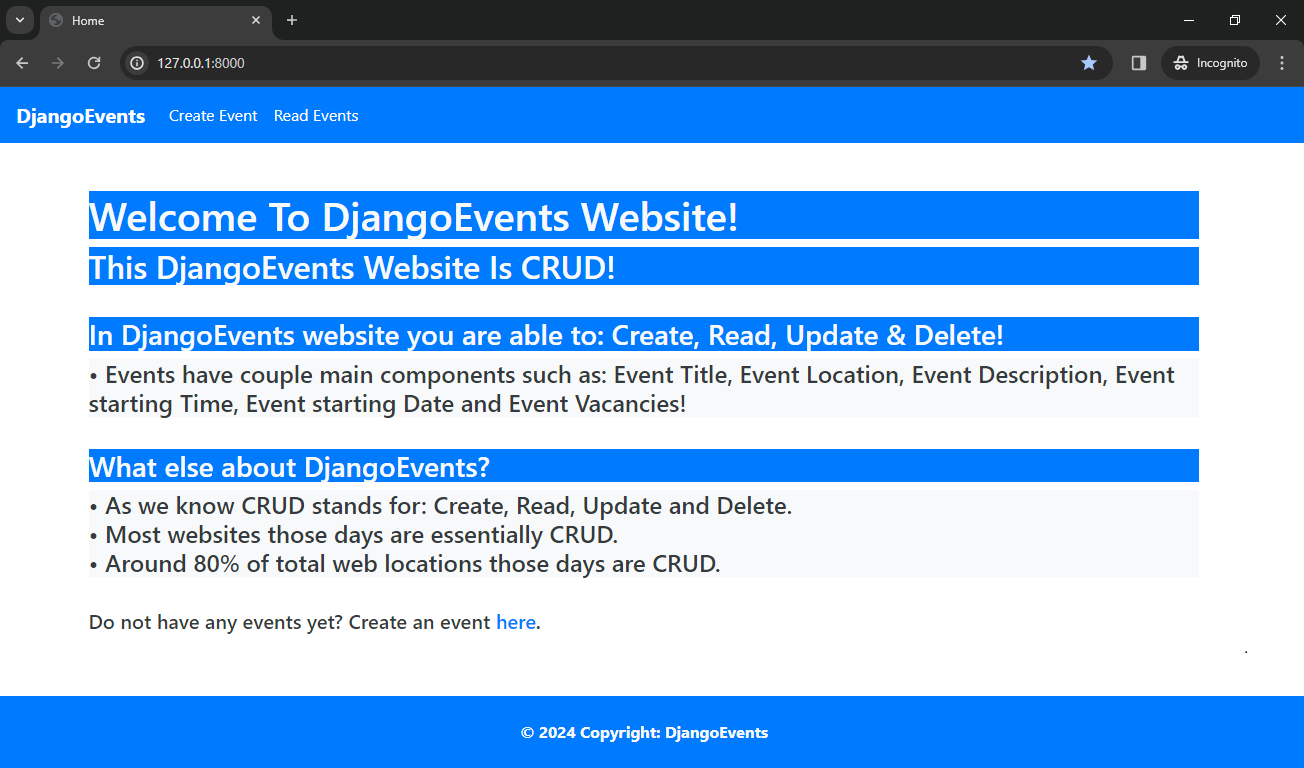
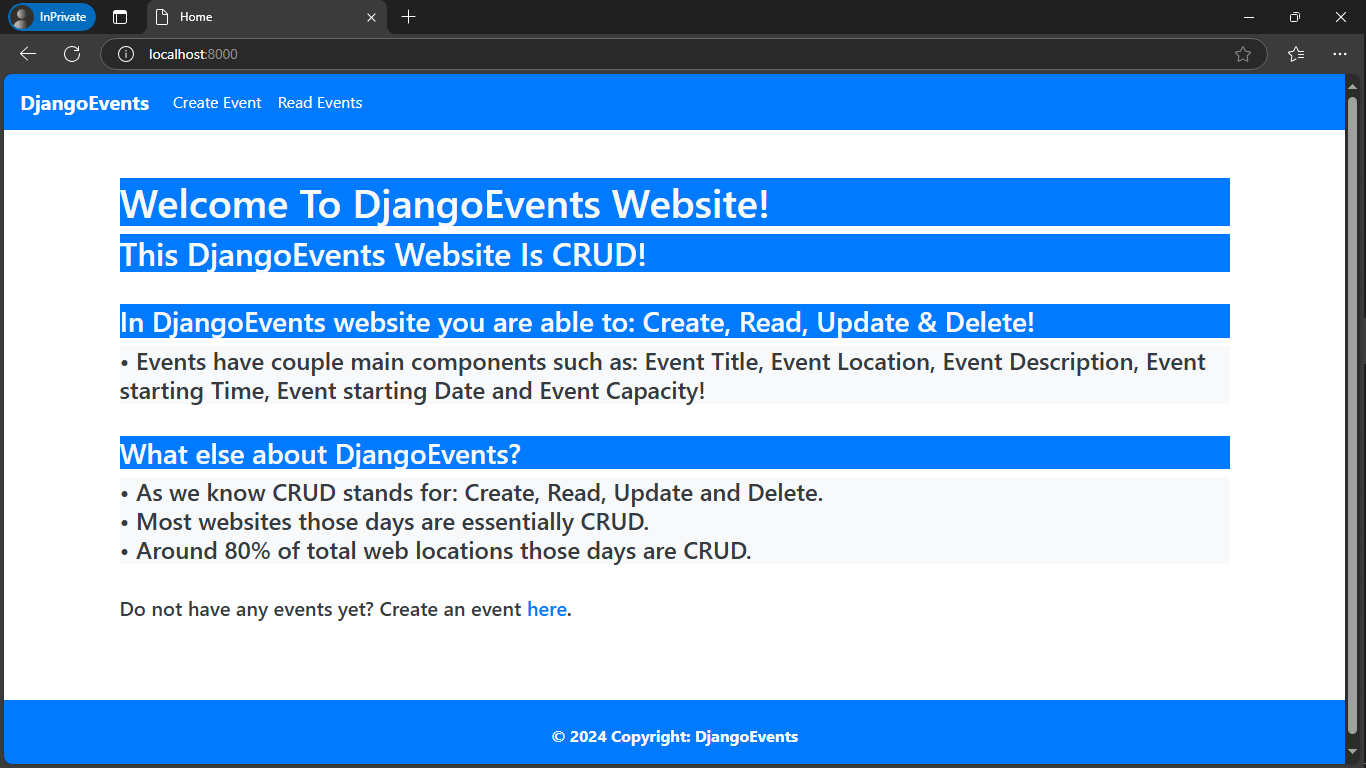
first commit

Changed region(s): [[0.0613, 0.2188, 0.9202, 0.75], [0.0, 0.0, 1.0, 1.0], [0.0613, 0.7812, 0.4294, 0.8438]]

diff --git a/app/templates/index.html b/app/templates/index.html
@@ -15,7 +15,7 @@
 			<h2 class="text bg-primary text-light">This DjangoEvents Website Is CRUD!</h2><br/>
 			<h3 class="text bg-primary text-light">In DjangoEvents website you are able to: Create, Read, Update & Delete!</h3>
 
-			<h4 class="text bg-light text-dark"> • Events have couple main components such as: Event Title, Event Location, Event Description, Event starting Time, Event starting Date and Event Vacancies!</h4><br/>
+			<h4 class="text bg-light text-dark"> • Events have couple main components such as: Event Title, Event Location, Event Description, Event starting Time, Event starting Date and Event Capacity!</h4><br/>
 
 			<h3 class="text bg-primary text-light">What else about DjangoEvents?</h3>
 			<h4 class="text bg-light text-dark"> • As we know CRUD stands for: Create, Read, Update and Delete.<br/> • Most websites those days are essentially CRUD.<br/>  • Around 80% of total web locations those days are CRUD.</h4><br/>

diff --git a/app/templates/read_event.html b/app/templates/read_event.html
@@ -22,7 +22,7 @@
             <th scope="col"><h5>Event Desctiption</h5></th>
             <th scope="col"><h5>Event Date</h5></th>
             <th scope="col"><h5>Event Time</h5></th>
-            <th scope="col"><h5>Tickets</h5></th>
+            <th scope="col"><h5>Capacity</h5></th>
             <th scope="col"><h5>Customization</h5></th>
           </tr>
         </thead>
@@ -35,7 +35,7 @@
             <td><h6>{{ event.description }}</h6></td>
             <td><h6>{{ event.date }}</h6></td>
             <td><h6>{{ event.time }}</h6></td>
-            <td><h6>{{ event.tickets }}</h6></td>
+            <td><h6>{{ event.capacity }}</h6></td>
             <td><a href="{% url 'update_event' event.id %}" class="btn btn-sm btn-secondary">Update</a>&nbsp<a href="{% url 'delete_event' event.id %}" class="btn btn-sm btn-danger">Delete</a></td>
           </tr>
           {% endfor %}

diff --git a/app/forms.py b/app/forms.py
@@ -15,7 +15,7 @@ class EventForm(forms.ModelForm):
 			"description": "",
 			"date": "",
 			"time": "",
-			"tickets": "",
+			"capacity": "",
 		}
 
 		widgets = {
@@ -24,5 +24,5 @@ class EventForm(forms.ModelForm):
 			"description": forms.Textarea(attrs={"placeholder":"Event Description", "class":"form-control", "style":"width:350px", "rows":"1"}),
 			"date": forms.TextInput(attrs={"placeholder":"Event Date", "class":"form-control", "style": "width:350px"}),
 			"time": forms.TextInput(attrs={"placeholder":"Event Time", "class":"form-control", "style": "width:350px"}),
-			"tickets": forms.TextInput(attrs={"placeholder":"Event Ticket", "class":"form-control", "style": "width:350px"}),
+			"capacity": forms.TextInput(attrs={"placeholder":"Event Capacity", "class":"form-control", "style": "width:350px"}),
 		}

diff --git a/app/migrations/0002_rename_tickets_event_capacity.py b/app/migrations/0002_rename_tickets_event_capacity.py
@@ -1,0 +1,18 @@
+# Generated by Django 5.1.1 on 2024-11-08 04:24
+
+from django.db import migrations
+
+
+class Migration(migrations.Migration):
+
+    dependencies = [
+        ('app', '0001_initial'),
+    ]
+
+    operations = [
+        migrations.RenameField(
+            model_name='event',
+            old_name='tickets',
+            new_name='capacity',
+        ),
+    ]

diff --git a/app/models.py b/app/models.py
@@ -8,7 +8,7 @@ class Event(models.Model):
 	description = models.TextField(max_length=25)
 	date = models.DateField(max_length=15)
 	time = models.TimeField(max_length=15)
-	tickets = models.IntegerField()
+	capacity = models.IntegerField()
 
 	def __str__(self):
 		return self.title

diff --git a/README.md b/README.md
@@ -6,3 +6,4 @@
 ![screenshot2](https://github.com/dusanrsc/Django_Events/assets/149257819/60cd16c6-88fd-450a-8452-949ddcfd3136)
 ![screenshot3](https://github.com/dusanrsc/Django_Events/assets/149257819/b5acc79b-29ea-42a0-a35c-f3b0c644ac52)
 ![screenshot4](https://github.com/dusanrsc/Django_Events/assets/149257819/defe5c39-302e-4bc6-ade6-8d17d139da77)
+"# Django_Events" 
